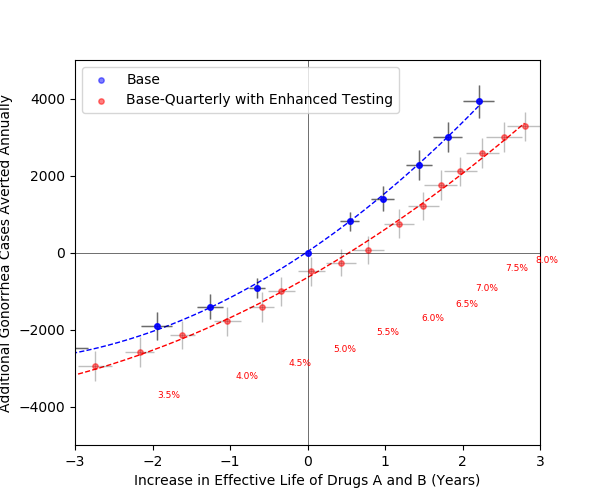
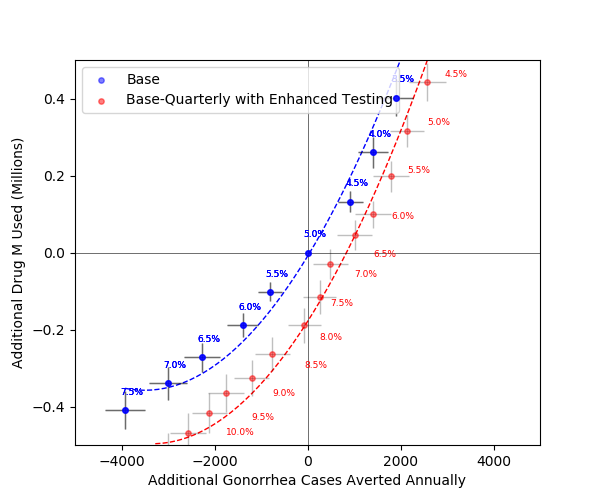
gono axes reversed

diff --git a/gonorrhea/SADisplaySeries.py b/gonorrhea/SADisplaySeries.py
@@ -42,7 +42,7 @@ def plot_series(list_series,
 
 
 # change this to false to show M used
-SHOW_EFFECTIVE_LIFE = True
+SHOW_EFFECTIVE_LIFE = False
 SIM_LENGTH = 50     # years
 
 if SHOW_EFFECTIVE_LIFE:
@@ -75,20 +75,23 @@ plot_series(list_series=[Set.base, Set.baseQuarterly],
             wtp_multiplier=wtp_mult,
             labels=labels,
             file_name='Base vs. Quarterly Base.png')
-# base vs. base with enhanced testing
-plot_series(list_series=[Set.base, Set.baseEnhancedTesting],
-            effect_multiplier=effect_mult,
-            cost_multiplier=cost_mult,
-            switch_cost_effect_on_figure=switch_cost_effect_on_figure,
-            wtp_multiplier=wtp_mult,
-            labels=labels,
-            file_name='Base vs. Base with Enhanced Testing.png')
-# base vs. quarterly base with enhanced testing
-plot_series(list_series=[Set.base, Set.baseQuarterlyEnhancedTesting],
-            effect_multiplier=effect_mult,
-            cost_multiplier=cost_mult,
-            switch_cost_effect_on_figure=switch_cost_effect_on_figure,
-            wtp_multiplier=wtp_mult,
-            labels=labels,
-            file_name='Base vs. Quarterly Base with Enhanced Testing.png')
+
+included = False
+if included:
+    # base vs. base with enhanced testing
+    plot_series(list_series=[Set.base, Set.baseEnhancedTesting],
+                effect_multiplier=effect_mult,
+                cost_multiplier=cost_mult,
+                switch_cost_effect_on_figure=switch_cost_effect_on_figure,
+                wtp_multiplier=wtp_mult,
+                labels=labels,
+                file_name='Base vs. Base with Enhanced Testing.png')
+    # base vs. quarterly base with enhanced testing
+    plot_series(list_series=[Set.base, Set.baseQuarterlyEnhancedTesting],
+                effect_multiplier=effect_mult,
+                cost_multiplier=cost_mult,
+                switch_cost_effect_on_figure=switch_cost_effect_on_figure,
+                wtp_multiplier=wtp_mult,
+                labels=labels,
+                file_name='Base vs. Quarterly Base with Enhanced Testing.png')
 

diff --git a/gonorrhea/GonoSettings.py b/gonorrhea/GonoSettings.py
@@ -2,8 +2,8 @@ import apace.ScenariosClasses as Cls
 
 INDX = 0
 SHOW_FEASIBLE_RANGES = False
-X_RANGE = (-100, 100)  # (-75, 75)
-Y_RANGE = (-0.5, 0.5) #(-1, 2)
+X_RANGE = (-100, 100)
+Y_RANGE = (-0.5, 0.5)
 
 # file names for scenario analysis
 SA_FILE_NAMES = ['csvfiles\SA50YrCalib.csv',
@@ -78,8 +78,8 @@ varBaseQuartEnhancedTesting = [
 base = Cls.Series('Base', 'blue',
                   variable_conditions=varBase,
                   if_find_frontier=False,
-                  labels_shift_x=-10,
-                  labels_shift_y=0.04)
+                  labels_shift_x=-600,
+                  labels_shift_y=0.02)
 baseQuarterly = Cls.Series('Base-Quarterly', 'red',
                            variable_conditions=varBaseQuart,
                            if_find_frontier=False,
